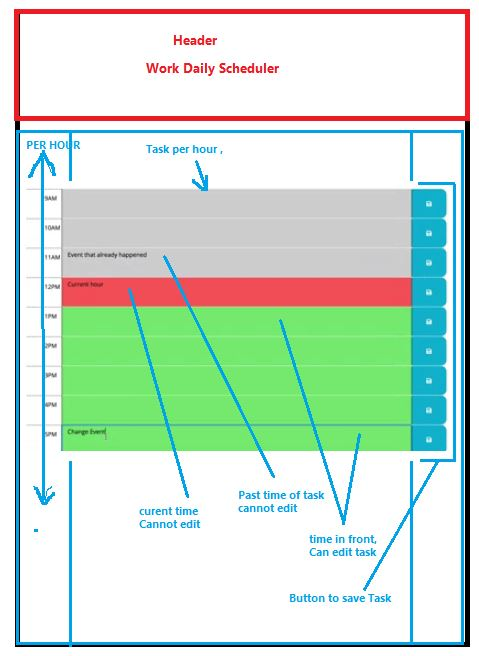
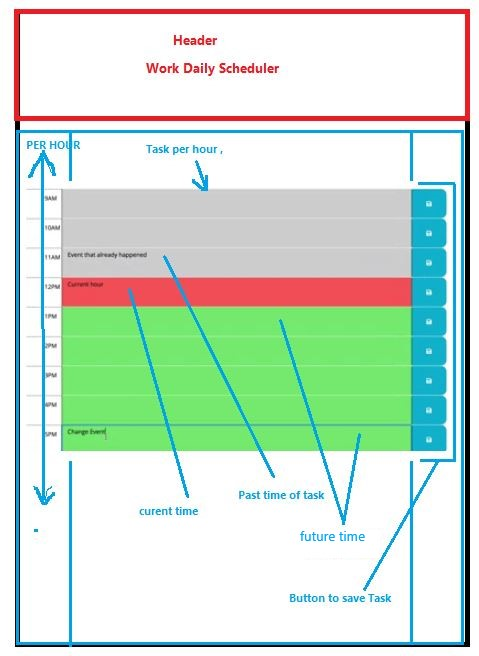
add hour in script, fix save function

diff --git a/index.html b/index.html
@@ -25,81 +25,63 @@
       <div class="col-1 hour" id="9am">
         9:00am
       </div>
-      <textarea class="col-10 description" id="9t">
-        Add task
-        </textarea>
+      <textarea class="col-10 description" id="9"></textarea>
       <button class="col-1 saveBtn">+</button>
     </div>
     <div class="row time-block">
       <div class="col-1 hour" id="10am">
         10:00am
       </div>
-      <textarea class="col-10 description" id="10t">
-        Add task
-          </textarea>
+      <textarea class="col-10 description" id="10"></textarea>
       <button class="col-1 saveBtn">+</button>
     </div>
     <div class="row time-block">
       <div class="col-1 hour" id="11am">
         11:00am
       </div>
-      <textarea class="col-10 description" id="11t">
-        Add task
-          </textarea>
+      <textarea class="col-10 description" id="11"></textarea>
       <button class="col-1 saveBtn">+</button>
     </div>
     <div class="row time-block">
       <div class="col-1 hour" id="12am">
         12:00am
       </div>
-      <textarea class="col-10 description" id="12t">
-        Add task
-          </textarea>
+      <textarea class="col-10 description" id="12"></textarea>
       <button class="col-1 saveBtn">+</button>
     </div>
     <div class="row time-block">
       <div class="col-1 hour" id="1pm">
         01:00pm
       </div>
-      <textarea class="col-10 description" id="01t">
-      Add task
-          </textarea>
+      <textarea class="col-10 description" id="13"></textarea>
       <button class="col-1 saveBtn">+</button>
     </div>
     <div class="row time-block">
       <div class="col-1 hour" id="2pm">
         02:00pm
       </div>
-      <textarea class="col-10 description" id="02t">
-        Add task
-          </textarea>
+      <textarea class="col-10 description" id="14"></textarea>
       <button class="col-1 saveBtn">+</button>
     </div>
     <div class="row time-block">
       <div class="col-1 hour" id="3pm">
         03:00pm
       </div>
-      <textarea class="col-10 description" id="03t">
-        Add task
-          </textarea>
+      <textarea class="col-10 description" id="15"></textarea>
       <button class="col-1 saveBtn">+</button>
     </div>
     <div class="row time-block">
       <div class="col-1 hour" id="4pm">
         04:00pm
       </div>
-      <textarea class="col-10 description" id="04t">
-        Add task
-          </textarea>
+      <textarea class="col-10 description" id="16"></textarea>
       <button class="col-1 saveBtn">+</button>
     </div>
     <div class="row time-block">
       <div class="col-1 hour" id="5pm">
         05:00pm
       </div>
-      <textarea class="col-10 description" id="05t">
-        Add task
-          </textarea>
+      <textarea class="col-10 description" id="17"></textarea>
       <button class="col-1 saveBtn">+</button>
     </div>
   </div>

diff --git a/assets/js/script.js b/assets/js/script.js
@@ -1,19 +1,57 @@
 $(document).ready(function () {
+
+  var tasks = {};
     // crate var to display current date
-    var dateEl = document.querySelector("#currentDay");
-    var today = moment();
+   var today = moment().format("MM dddd YYYY hh:mm");
+    
+    //use momnet and jquery for today date in header
     // format date for #currentDay
-    dateEl.textContent = today.format("MMM-dddd-YYYY hh:mm");
-  
+    $("#currentDay").text(today);
+  // storage task to storage
+    
+    const colDescription = document.querySelectorAll(".description")
+    // function for save button 
     $(".row").on("click", "button", function () {
-      console.log("<button> was clicked");
+    var saveTask = $(this).siblings("textarea").val();
+    var taskID = $(this).siblings("textarea").attr("id");
+    localStorage.setItem(taskID, saveTask);
+      console.log(taskID, saveTask);
     });
-  // function for save button 
   
+   // show valu in task descripion field
+
   // function to update hour .add and .remove class
-  
+
   // load,  dave and call data from local storage
-  
-  
-  
-  });
+    var hour = moment().hours()
+
+    $(".description").each(function(){
+      var colHour=parseInt(
+        $(this).attr("id")
+      )
+      if(colHour < hour){
+        $(this).addClass("past");
+      } else if 
+      (colHour === hour) {
+      $(this).addClass("present");
+      } else{
+        $(this).addClass("future")
+      }
+
+    })
+
+    $("#9").val(localStorage.getItem("9"));
+    $("#10").val(localStorage.getItem("10"));
+    $("#11").val(localStorage.getItem("11"));
+    $("#12").val(localStorage.getItem("12"));
+    $("#13").val(localStorage.getItem("13"));
+    $("#14").val(localStorage.getItem("14"));
+    $("#15").val(localStorage.getItem("15"));
+    $("#16").val(localStorage.getItem("16"));
+    $("#17").val(localStorage.getItem("17"));
+
+
+
+  // load tasks
+ // loadTasks();
+});
